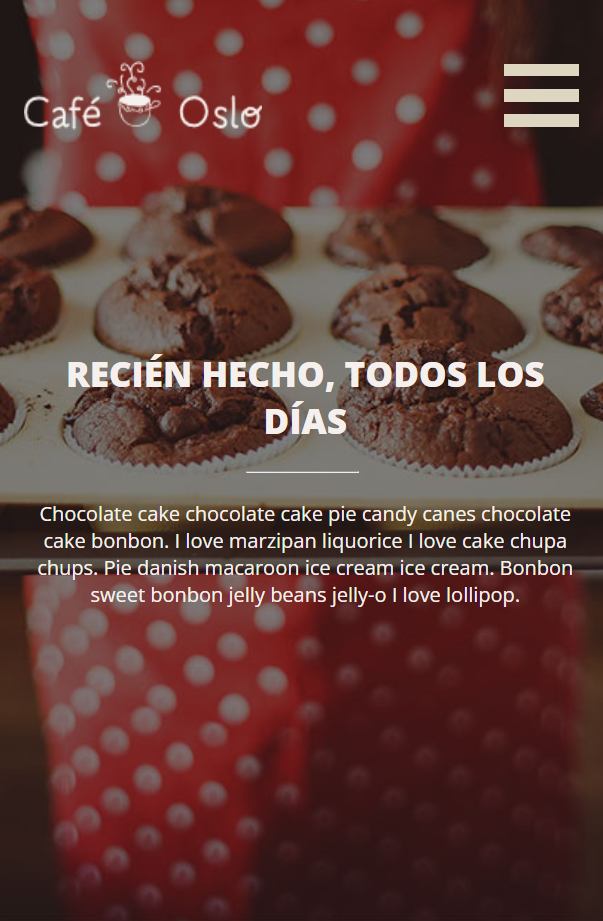
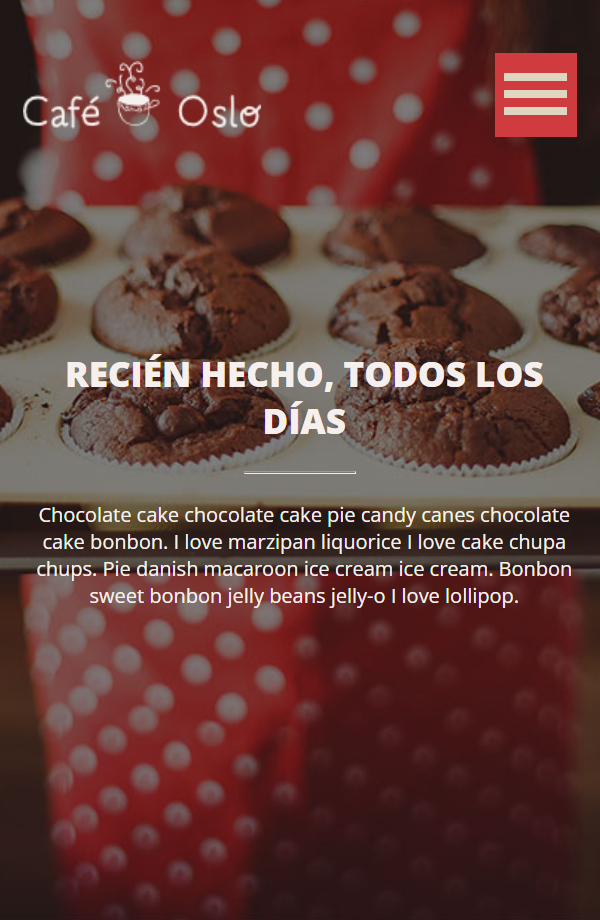
adicao do menu mobile

diff --git a/css/style.css b/css/style.css
@@ -67,6 +67,35 @@ a:hover {
     padding: 20px;
 } */
 
+.mobile {
+    background-color: #d03b40;
+    width: 66px;
+    height: 67px;
+    padding-left: 6px;
+    padding-top: 8px;
+    color: transparent;
+}
+
+.line1 {
+    width: 32px;
+    height: 3px;
+    background: #fff;
+    margin: 8px;
+}
+
+.line2 {
+    width: 32px;
+    height: 3px;
+    background: #fff;
+    margin: 8px;
+}
+
+.line3 {
+    width: 32px;
+    height: 3px;
+    background: #fff;
+    margin: 8px;
+}
 
 .menu {
     display: flex;
@@ -276,6 +305,10 @@ li {
     margin-left: 20px;
 }
 
+.mobile {
+    display: none;
+}
+
 @media (min-width: 600px) and (max-width: 1100px) {
     .content-2 {   
         display: grid;
@@ -307,6 +340,11 @@ li {
     /* #btn-mobile {
         display: block;
     } */
+
+    .mobile {
+        display: block;
+    }
+
     #menu-list {
         display: none;
         position: absolute;
@@ -348,8 +386,9 @@ li {
 
 
     #hamburger {
-        border-top: 10px solid;
-        width: 60px;
+        border-top: 6.5px solid;
+        /* border-radius: 1px; */
+        width: 50px;
         /* background: var(--color-red); */
         background: transparent;
         color: var(--color-beige);
@@ -359,10 +398,11 @@ li {
     #hamburger::after, #hamburger::before {
         content: '';
         display: block;
-        width: 60px;
-        height: 10px;
+        /* border-radius: 1px; */
+        width: 50px;
+        height: 6.5px;
         background: currentColor;
-        margin-top: 10px;
+        margin-top: 7px;
         /* margin-bottom: 3px; */
         transition: .1s;
         position: relative;
@@ -379,7 +419,7 @@ li {
 
     #nav.active #hamburger::after {
         transform: rotate(-135deg);
-        top: -20px;
+        top: -14.5px;
     }
 
     .menu img {

diff --git a/index.html b/index.html
@@ -17,13 +17,17 @@
     
     <div class="bg-home">
         <div class="menu">        
-            <img src="./assets/logo/Logo.png">      
+            <img src="assets/logo/Logo.png">      
             <nav id="nav">
-                <button id="btn-mobile">
-                    <!-- Menu -->
 
-                    <span id="hamburger"></span>
-                </button>
+                <div class="mobile">
+                    <button id="btn-mobile">
+                        <!-- Menu -->
+    
+                        <span id="hamburger"></span>
+                    </button>
+                </div>
+
                 <ul id="menu-list">
                     <li><a href="#">El espacio</a></li>
                     <li><a href="#">Productos</a></li>

diff --git a/README.md b/README.md
@@ -1,3 +1,11 @@
-# Projeto Cafeteria 
+# Projeto Cafeteria
 
 Aplicação de uma cafeteria para estudo da responsividade.
+
+### Versão web
+
+![Projeto Cafeteria](assets/home.png "Projeto Cafeteria")
+
+### Versão mobile
+
+![Projeto Cafeteria](assets/home-mobile.png "Projeto Cafeteria")
